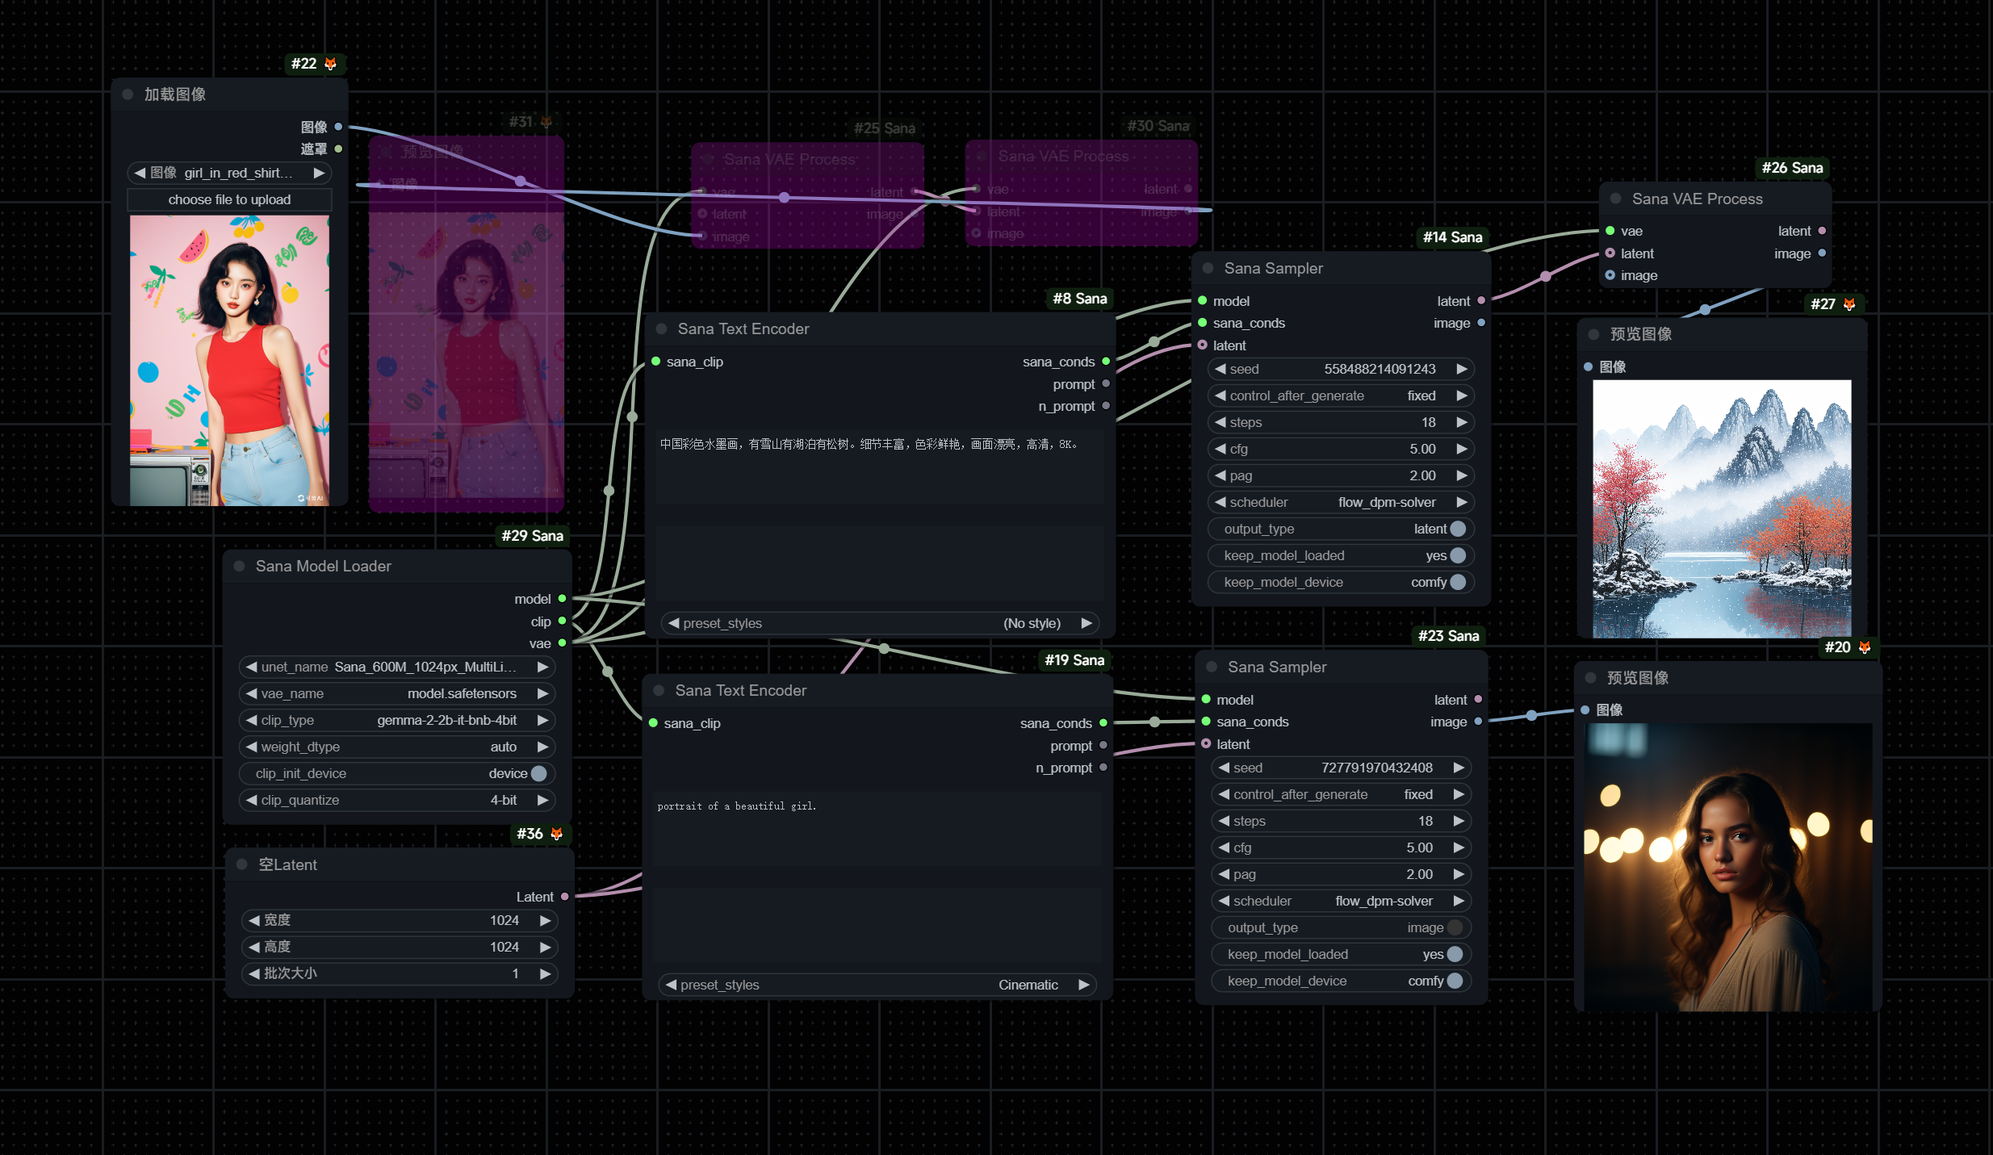
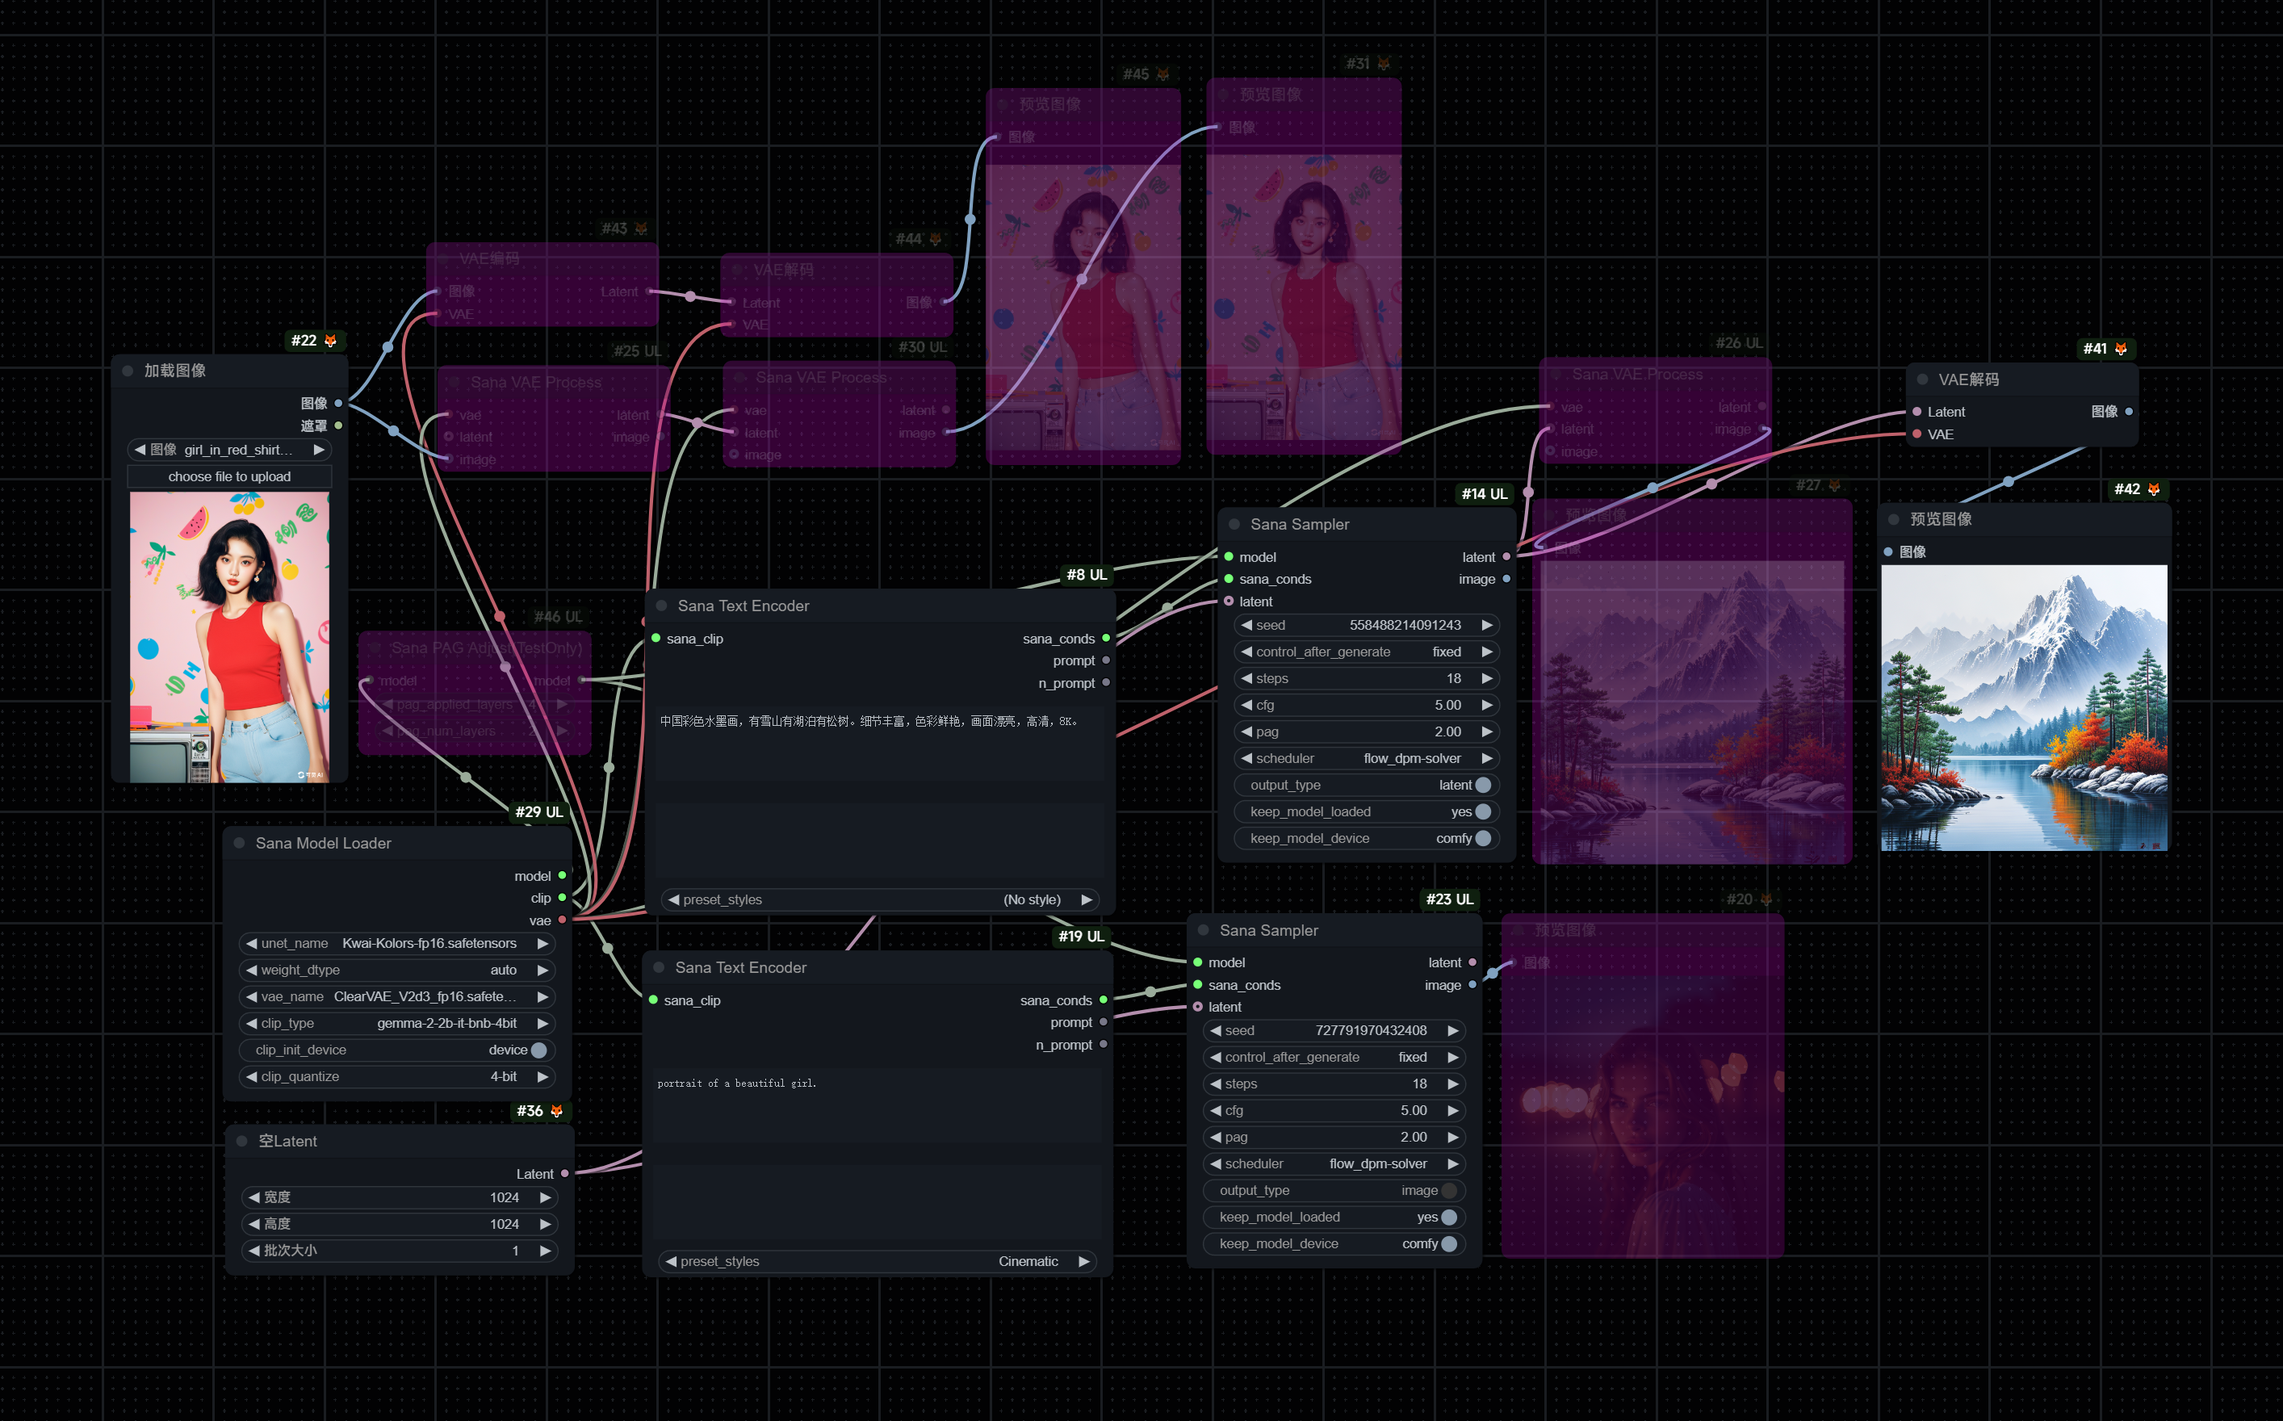
Split dtype control, fit vae function to comfy native vae nodes.

diff --git a/Image_Generation/Sana/nodes.py b/Image_Generation/Sana/nodes.py
@@ -2,15 +2,16 @@ import os
 import torch
 import folder_paths
 import numpy as np
-from comfy.model_management import get_torch_device, soft_empty_cache, unet_offload_device, text_encoder_offload_device, vae_offload_device
+from comfy.model_management import get_torch_device, soft_empty_cache, unet_offload_device, text_encoder_offload_device, vae_offload_device, vae_dtype, total_vram, text_encoder_dtype
 from comfy.utils import load_torch_file
 from PIL import Image
 import comfy.model_management as mm
-from .pipeline.nodes_model_config import get_vram
 # from copy import deepcopy
 
 device = get_torch_device()
-is_lowvram = get_vram(device)[1] < 8888
+vae_dtype = vae_dtype(device, [torch.float16, torch.bfloat16, torch.float32])
+text_encoder_dtype = text_encoder_dtype(device)
+is_lowvram = (torch.cuda.is_available() and total_vram < 8888)
 current_dir = os.path.dirname(os.path.abspath(__file__))
 
 class UL_SanaVAEProcess:
@@ -18,7 +19,7 @@ class UL_SanaVAEProcess:
     def INPUT_TYPES(s):
         return {
             "required": { 
-                "vae": ("Sana_VAE", )
+                "vae": ("VAE", )
             },
             "optional": {
                 "latent": ("LATENT", ),
@@ -34,8 +35,8 @@ class UL_SanaVAEProcess:
     DESCRIPTION = "WIP."
 
     def process(self, vae, latent=None, image=None):
-        vae, dtype = vae['vae'], vae['dtype']
-        vae.to(device)
+        vae = vae.vae
+        vae.to(device, vae_dtype)
         if latent != None and image != None:
             raise ValueError('......')
         elif latent != None: # decode
@@ -46,33 +47,34 @@ class UL_SanaVAEProcess:
                 width, height = latent['width'], latent['height']
             else:
                 width = None
-            latent = latent['samples'].to(device, dtype)
+            latent = latent['samples'].to(device, vae_dtype)
             with torch.inference_mode():
                 result = vae.decode(latent.detach() / vae.cfg.scaling_factor)
             if width != None:
-                result = image_processor.resize_and_crop_tensor(result, width, height)
-            result = image_processor.postprocess(result.cpu())
+                result = image_processor.resize_and_crop_tensor(result.float(), width, height)
+            result = image_processor.postprocess(result.cpu().float())
             results = []
             for img in result:
                 results.append(pil2tensor(img))
             result = torch.cat(results, dim=0)
         elif image != None: # encode
-            import torchvision.transforms as transforms
+            # import torchvision.transforms as transforms
             # from .diffusion.model.dc_ae.efficientvit.apps.utils.image import DMCrop
-            image_np = image.squeeze().mul(255).clamp(0, 255).byte().numpy()
-            image = Image.fromarray(image_np, mode='RGB')
+            # image_np = image.squeeze().mul(255).clamp(0, 255).byte().numpy()
+            # image = Image.fromarray(image_np, mode='RGB')
             
-            transform = transforms.Compose([
-                # DMCrop(1024), # resolution
-                transforms.ToTensor(),
-                transforms.Normalize((0.5, 0.5, 0.5), (0.5, 0.5, 0.5)),
-            ])
-            x = transform(image)[None].to(device, dtype)
+            # transform = transforms.Compose([
+            #     # DMCrop(1024), # resolution
+            #     transforms.ToTensor(),
+            #     transforms.Normalize((0.5, 0.5, 0.5), (0.5, 0.5, 0.5)),
+            # ])
+            # x = transform(image)[None].to(device, dtype)
             # image = image.permute(0, 3, 1, 2)
+            image = (image * 2.0 - 1.0).permute(0, 3, 1, 2)
             with torch.inference_mode():
-                # latent = vae.encode(image.to(device, dtype))
-                latent = vae.encode(x)
-                latent = latent * vae.cfg.scaling_factor
+                latent = vae.encode(image.to(device, vae_dtype))
+                # latent = vae.encode(x)
+            latent = latent * vae.cfg.scaling_factor
             result = image
         vae.to(vae_offload_device())
         soft_empty_cache(True)
@@ -108,6 +110,7 @@ class UL_SanaSampler:
     DESCRIPTION = "⚡Sana: Efficient High-Resolution Image Synthesis with Linear Diffusion Transformer\nWe introduce Sana, a text-to-image framework that can efficiently generate images up to 4096 × 4096 resolution.\nSana can synthesize high-resolution, high-quality images with strong text-image alignment at a remarkably fast speed, deployable on laptop GPU."
 
     def sampler(self, model, sana_conds, steps, cfg, pag, seed, keep_model_loaded, keep_model_device, scheduler, output_type=False, latent=None):
+        pag_applied_layers = None if 'pag_applied_layers' not in model.keys() else model['pag_applied_layers']
         results = model['pipe'](
             conds=sana_conds,
             guidance_scale=cfg,
@@ -117,6 +120,7 @@ class UL_SanaSampler:
             latents=None if latent == None else latent['samples'],
             noise_scheduler=scheduler,
             output_type=output_type,
+            pag_applied_layers=pag_applied_layers,
         )
         if keep_model_loaded and keep_model_device:
             model['unet'].to(unet_offload_device())
@@ -156,15 +160,15 @@ class UL_SanaModelLoader:
         return {
             "required": {
                 "unet_name": (folder_paths.get_filename_list("diffusion_models"), ),
+                "weight_dtype": (["auto","fp16","bf16","fp32"],{"default":"auto", "tooltip": "Just for model dtype control, for vae and clip use comfy `main.py --args`."}),
                 "vae_name": (vaes, ),
                 "clip_type": (["gemma-2-2b-it", "gemma-2-2b-it-bnb-4bit","Qwen2-1.5B-Instruct","T5-xxl"],{"default":"gemma-2-2b-it"}),
-                "weight_dtype": (["auto","fp16","bf16","fp32"],{"default":"auto"}),
                 "clip_init_device": ("BOOLEAN", {"default": True, "label_on": "device", "label_off": "cpu", "tooltip": "For ram <= 16gb and with cuda device, device is recommended for decrease ram consumption."}),
                 "clip_quantize": (["None", "8-bit", "4-bit"], {"tooltip": "For non quantized llm model."}),
             },
         }
 
-    RETURN_TYPES = ("Sana_Model", "Sana_Clip", "Sana_VAE",)
+    RETURN_TYPES = ("Sana_Model", "Sana_Clip", "VAE",)
     RETURN_NAMES = ("model", "clip", "vae",)
     FUNCTION = "loader"
     CATEGORY = "UL Group/Image Generation"
@@ -207,13 +211,13 @@ class UL_SanaModelLoader:
         state_dict = load_torch_file(vae_path, safe_load=True)
         vae.load_state_dict(state_dict, strict=False)
         state_dict = None
-        vae.to(dtype).eval()
+        vae.to(vae_dtype).eval()
         
         if "T5" in clip_type:
             from transformers import T5Tokenizer, T5EncoderModel
             tokenizer = T5Tokenizer.from_pretrained(text_encoder_dir)
             llm_model = None
-            text_encoder = T5EncoderModel.from_pretrained(text_encoder_dir, torch_dtype=dtype)
+            text_encoder = T5EncoderModel.from_pretrained(text_encoder_dir, torch_dtype=text_encoder_dtype)
         else:
             from transformers import (
                 AutoTokenizer, 
@@ -227,9 +231,9 @@ class UL_SanaModelLoader:
             # import json
             tokenizer = AutoTokenizer.from_pretrained(text_encoder_dir)
             
-            quantization_config = BitsAndBytesConfig(load_in_8bit=True) if clip_quantize=='8-bit' else BitsAndBytesConfig(load_in_4bit=True, bnb_4bit_compute_dtype=dtype) if clip_quantize=='4-bit' else None
+            quantization_config = BitsAndBytesConfig(load_in_8bit=True) if clip_quantize=='8-bit' else BitsAndBytesConfig(load_in_4bit=True, bnb_4bit_compute_dtype=text_encoder_dtype) if clip_quantize=='4-bit' else None
             
-            llm_model = AutoModelForCausalLM.from_pretrained(text_encoder_dir, quantization_config=quantization_config, torch_dtype=dtype) if clip_type != 'gemma-2-2b-it-bnb-4bit' else AutoModelForCausalLM.from_pretrained(text_encoder_dir, torch_dtype=dtype)
+            llm_model = AutoModelForCausalLM.from_pretrained(text_encoder_dir, quantization_config=quantization_config, torch_dtype=text_encoder_dtype) if clip_type != 'gemma-2-2b-it-bnb-4bit' else AutoModelForCausalLM.from_pretrained(text_encoder_dir, torch_dtype=text_encoder_dtype)
             
             # llm_model_path = os.path.join(text_encoder_dir, 'model.safetensors')
             # config_path = os.path.join(text_encoder_dir, 'config.json')
@@ -291,7 +295,7 @@ class UL_SanaModelLoader:
         if "pos_embed" in state_dict:
             del state_dict["pos_embed"]
         missing, unexpected = unet.load_state_dict(state_dict, strict=False)
-        state_dict = None
+        del state_dict
         unet.eval().to(dtype)
         pipe = SanaPipeline(config, vae, dtype, unet)
         
@@ -310,10 +314,7 @@ class UL_SanaModelLoader:
             'vae': vae,
         }
         
-        out_vae = {
-            'vae': vae,
-            'dtype': dtype,
-        }
+        out_vae = first_stage_model(vae)
         
         return (model, clip, out_vae, )
 
@@ -391,11 +392,10 @@ class UL_SanaVAELoader:
         return {
             "required": {
                 "vae_name": (vaes, ),
-                "weight_dtype": (["auto","fp16","bf16","fp32"],{"default":"auto"}),
             },
         }
 
-    RETURN_TYPES = ("Sana_VAE",)
+    RETURN_TYPES = ("VAE",)
     RETURN_NAMES = ("vae",)
     FUNCTION = "loader"
     CATEGORY = "UL Group/Image Generation"
@@ -403,11 +403,9 @@ class UL_SanaVAELoader:
     OUTPUT_TOOLTIPS = ("Sana VAE: DCAE.", )
     DESCRIPTION = "For test only."
     
-    def loader(self, vae_name, weight_dtype):
+    def loader(self, vae_name):
         from .diffusion.model.dc_ae.efficientvit.ae_model_zoo import create_dc_ae_model_cfg
         from .diffusion.model.dc_ae.efficientvit.models.efficientvit.dc_ae import DCAE
-        
-        dtype = get_dtype_by_name(weight_dtype)
         
         vae_path = folder_paths.get_full_path_or_raise("vae", vae_name)
         # vae_path = r'C:\Users\pc\Desktop\New_Folder\SANA\models--mit-han-lab--dc-ae-f32c32-sana-1.0\model.safetensors'
@@ -415,15 +413,53 @@ class UL_SanaVAELoader:
         vae = DCAE(cfg)
         state_dict = load_torch_file(vae_path, safe_load=True)
         vae.load_state_dict(state_dict, strict=False)
-        state_dict = None
-        vae.to(dtype).eval()
+        del state_dict
+        vae.to(vae_dtype).eval()
         
-        out_vae = {
-            'vae': vae,
-            'dtype': dtype,
-        }
+        out_vae = first_stage_model(vae)
+        
         
         return (out_vae, )
+        
+class UL_SanaPAGAppliedLayers:
+    @classmethod
+    def INPUT_TYPES(s):
+        return {
+            "required": {
+                "model": ("Sana_Model", ),
+                "pag_applied_layers": ("INT", {"default": 14, "min": 0, "max": 27, "tooltip": "0.6b: 14, 1.6b: 8."}),
+                "pag_num_layers": ("INT", {"default": 1, "min": 1, "max": 27, "tooltip": "Default: 1."}),
+            },
+        }
+
+    RETURN_TYPES = ("Sana_Model",)
+    RETURN_NAMES = ("model",)
+    FUNCTION = "pag"
+    CATEGORY = "UL Group/Image Generation"
+    TITLE = "Sana PAG Adjust(TestOnly)"
+    OUTPUT_TOOLTIPS = ("Sana pag_applied_layers.", )
+    DESCRIPTION = "For test only."
+    
+    def pag(self, model, pag_applied_layers, pag_num_layers):
+        pag_total_layers = []
+        for i in range(pag_num_layers):
+            if -1<pag_applied_layers+i<28:
+                pag_total_layers.append(pag_applied_layers+i)
+            elif pag_applied_layers+i>28:
+                pag_total_layers.append(pag_applied_layers-i)
+        pag_applied_layers = pag_total_layers
+        
+        model = {
+            'pipe': model['pipe'],
+            'unet': model['unet'],
+            'text_encoder_model': model['text_encoder_model'],
+            'tokenizer': model['tokenizer'],
+            'text_encoder': model['text_encoder'],
+            'vae': model['vae'],
+            'pag_applied_layers': pag_applied_layers,
+        }
+        
+        return (model, )
         
 NODE_CLASS_MAPPINGS = {
     "UL_SanaSampler": UL_SanaSampler,
@@ -431,6 +467,7 @@ NODE_CLASS_MAPPINGS = {
     "UL_SanaTextEncode": UL_SanaTextEncode,
     "UL_SanaVAEProcess": UL_SanaVAEProcess,
     "UL_SanaVAELoader": UL_SanaVAELoader,
+    "UL_SanaPAGAppliedLayers": UL_SanaPAGAppliedLayers,
 }
 NODE_DISPLAY_NAME_MAPPINGS = {
     "Sana Sampler": "UL_SanaSampler",
@@ -544,3 +581,33 @@ def apply_style(style_name: str, positive: str, negative: str = "") -> tuple[str
     if not negative:
         negative = ""
     return p.replace("{prompt}", positive), n + negative
+
+class first_stage_model:
+    def __init__(self, vae):
+        self.vae = vae
+        
+    @torch.inference_mode()
+    def encode(self, image):
+        self.vae.to(device, vae_dtype)
+        image = (image * 2.0 - 1).permute(0, 3, 1, 2)
+        latent = self.vae.encode(image.to(device, vae_dtype))
+        latent = latent * self.vae.cfg.scaling_factor
+        self.vae.to(vae_offload_device())
+        return latent
+    
+    @torch.inference_mode()
+    def decode(self, latent):
+        from diffusers.image_processor import PixArtImageProcessor
+        vae_scale_factor = 2 ** (len(self.vae.cfg.encoder.width_list) - 1)
+        image_processor = PixArtImageProcessor(vae_scale_factor=vae_scale_factor)
+        self.vae.to(device, vae_dtype)
+        # with torch.inference_mode():
+        result = self.vae.decode(latent.to(device, vae_dtype).detach() / self.vae.cfg.scaling_factor)
+        result = image_processor.postprocess(result.cpu().float())
+        results = []
+        for img in result:
+            results.append(pil2tensor(img))
+            # results.append((img / 2 + 1).clamp(-1, 1).cpu().float())
+        result = torch.cat(results, dim=0)
+        self.vae.to(vae_offload_device())
+        return result

diff --git a/Image_Generation/Sana/pipeline/sana_pipeline.py b/Image_Generation/Sana/pipeline/sana_pipeline.py
@@ -7,7 +7,7 @@ from ..diffusion.model.utils import resize_and_crop_tensor
 from diffusers.image_processor import PixArtImageProcessor
 from ..diffusion.data.datasets.utils import ASPECT_RATIO_512_TEST, ASPECT_RATIO_1024_TEST, ASPECT_RATIO_2048_TEST
 from comfy.model_management import get_torch_device, vae_offload_device, unet_offload_device, soft_empty_cache
-from ..nodes import is_lowvram
+from ..nodes import is_lowvram, vae_dtype
 
 device = get_torch_device()
 
@@ -59,6 +59,7 @@ class SanaPipeline(nn.Module):
         latents=None,
         noise_scheduler='flow_dpm-solver',
         output_type=True,
+        pag_applied_layers=None,
     ):
         guidance_type = "classifier-free_PAG"
         self.device = device
@@ -73,6 +74,8 @@ class SanaPipeline(nn.Module):
             self.width // self.config.vae.vae_downsample_rate,
         )
         self.guidance_type = guidance_type_select(guidance_type, pag_guidance_scale, self.config.model.attn_type)
+        
+        pag_applied_layers = pag_applied_layers if pag_applied_layers != None else self.config.model.pag_applied_layers
 
         hw, ar = (
             torch.tensor([[self.image_size, self.image_size]], dtype=torch.float, device=self.device).repeat(num_images_per_prompt, 1),
@@ -153,7 +156,7 @@ class SanaPipeline(nn.Module):
                         guidance_type=self.guidance_type,
                         cfg_scale=guidance_scale,
                         pag_scale=pag_guidance_scale,
-                        pag_applied_layers=self.config.model.pag_applied_layers,
+                        pag_applied_layers=pag_applied_layers, #self.config.model.pag_applied_layers, # 0.6b: [14] 1.6b: [8]
                         model_type="flow",
                         model_kwargs=model_kwargs,
                         schedule="FLOW",
@@ -167,19 +170,19 @@ class SanaPipeline(nn.Module):
                         flow_shift=self.flow_shift,
                     )
 
-            sample = sample.to(self.weight_dtype)
+            # sample = sample.to(self.weight_dtype)
             
             if not output_type:
                 if is_lowvram:
                     self.model.to(unet_offload_device())
                 soft_empty_cache(True)
-                self.vae.to(device)
+                self.vae.to(device, vae_dtype)
                 
                 with torch.no_grad():
                 # with torch.inference_mode():
-                    sample = self.vae.decode(sample.detach() / self.vae.cfg.scaling_factor)
-                sample = resize_and_crop_tensor(sample, self.ori_width, self.ori_height)
-                samples = self.image_processor.postprocess(sample.cpu())
+                    sample = self.vae.decode(sample.to(vae_dtype).detach() / self.vae.cfg.scaling_factor)
+                sample = resize_and_crop_tensor(sample.float(), self.ori_width, self.ori_height)
+                samples = self.image_processor.postprocess(sample.cpu().float())
                 
                 self.vae.to(vae_offload_device())
             else:

diff --git a/README.md b/README.md
@@ -6,6 +6,7 @@
 - Ram will not released (tried but failed).
 - If select `gemma-2-2b-it` and apply `clip_quantize`, parts of text_encoder will remain in vram.
 - Test on rtx cuda-device with win10+py311+torch2.5.1+cuda126.
+- If use comfy vae decode node, output image size maybe not same as input.
 ## Known issue:
 - Batch_size not work, it's a loop which i don't think is a good idea, so i left it empty.
 - Image2image not work.
